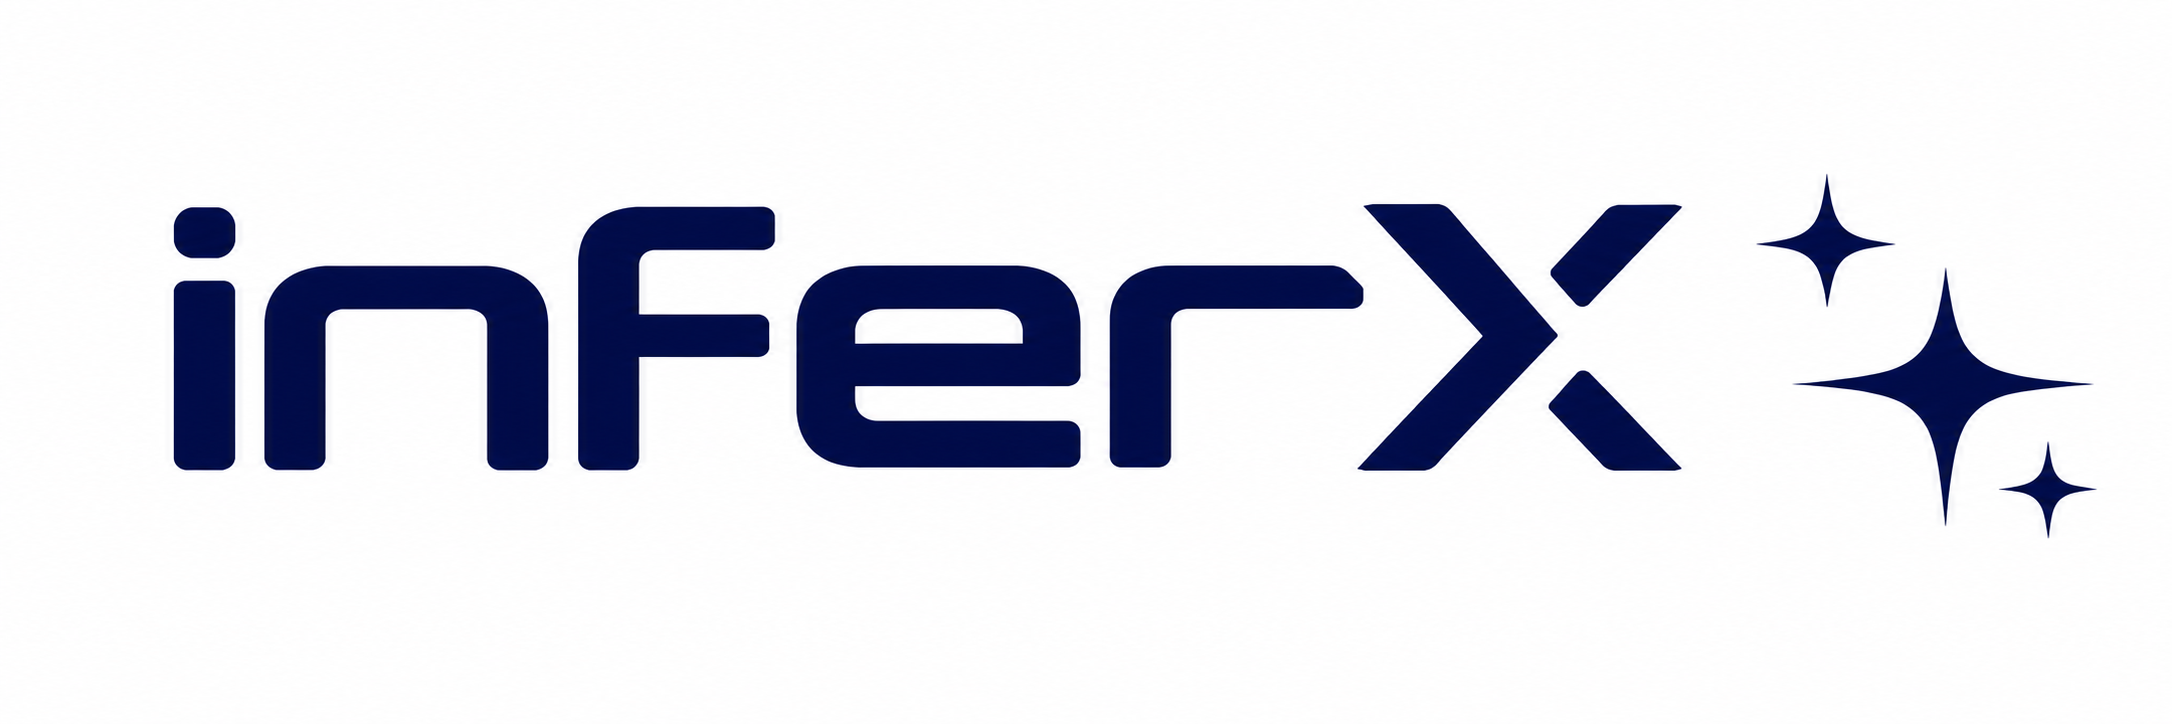
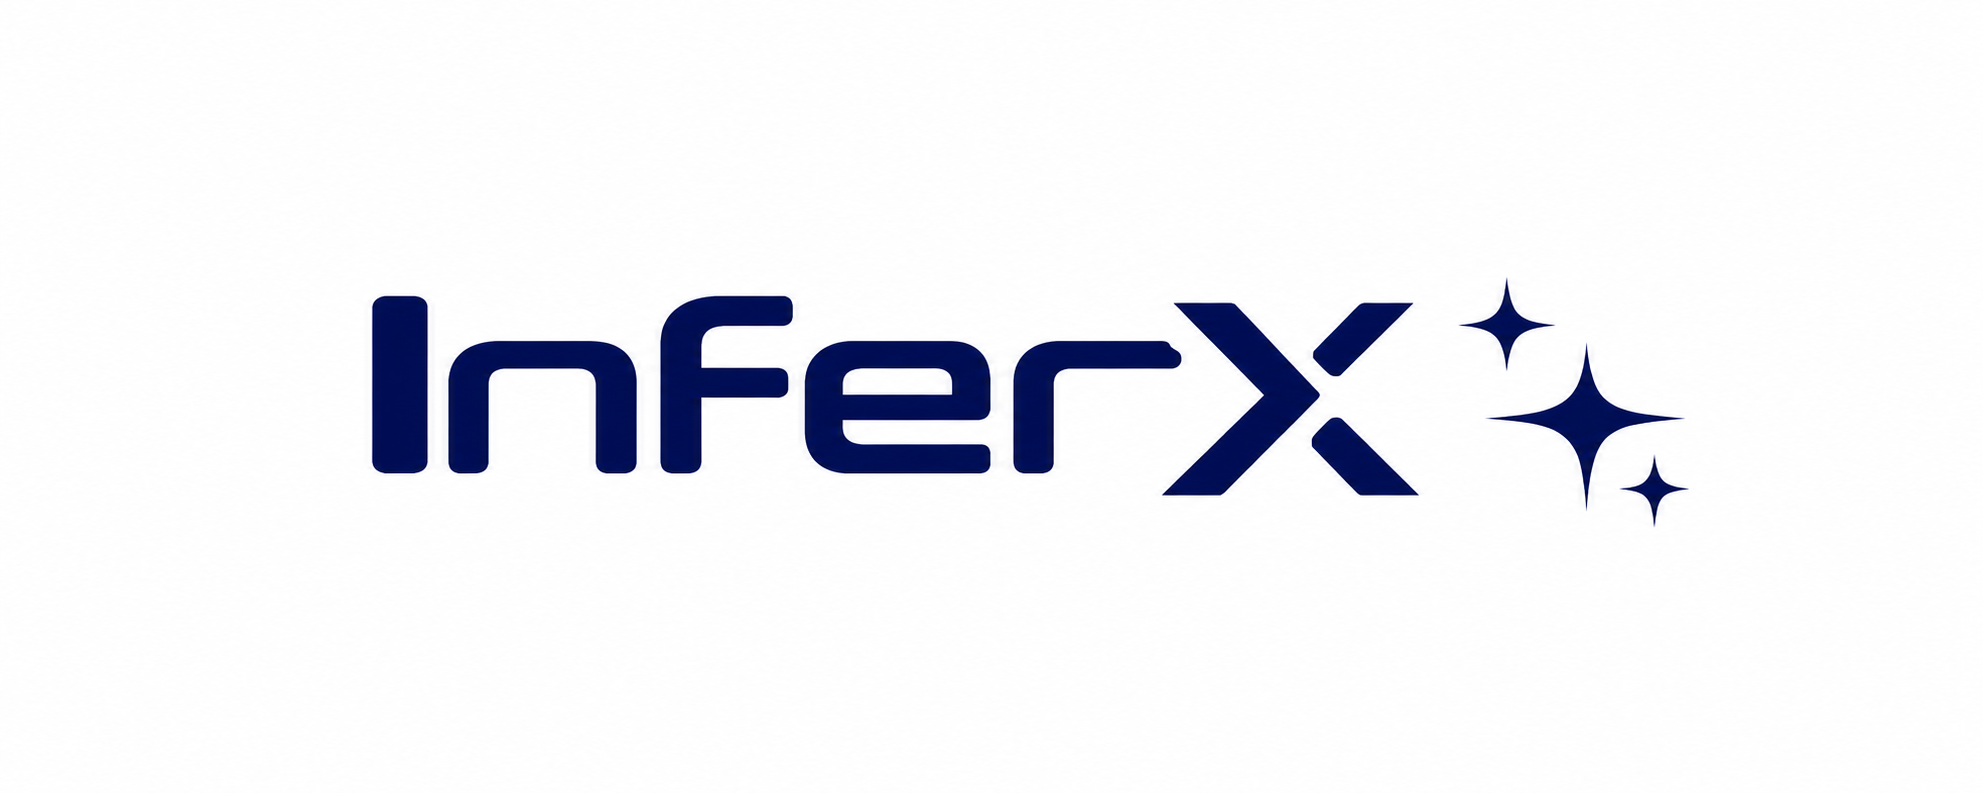
Use InferX wordmark and name

Changed region(s): [[0.0615, 0.2735, 0.9536, 0.7293], [0.7998, 0.2735, 0.8613, 0.395]]

diff --git a/README.md b/README.md
@@ -1,5 +1,5 @@
 <p align="center">
-  <img src="docs/assets/inferx-banner.png" alt="inferX" width="640">
+  <img src="docs/assets/inferx-banner.png" alt="InferX" width="640">
 </p>
 
 <p align="center">
@@ -18,23 +18,23 @@ When an [HPX](https://github.com/STEllAR-GROUP/hpx) locality that holds resident
 
 HPX should not need to understand application state, such as a KV cache or a stencil partition.
 It may need clear identity, failure and ownership semantics so that the layer above can recover
-that state. inferX builds real stateful consumers of HPX supervision and dispatch to find out
+that state. InferX builds real stateful consumers of HPX supervision and dispatch to find out
 which semantics are already there and which are missing.
 
 ## Where it comes from
 
-inferX continues a line of work that started with [RayX](https://github.com/byekrang/RayX), which
+InferX continues a line of work that started with [RayX](https://github.com/byekrang/RayX), which
 asked how much of the distributed execution Ray is usually used for could run on HPX instead,
 especially for fine-grained AI and LLM workloads. RayX's experiment 70 established the HPX
 locality supervision that [langX](https://github.com/RohanOnKeys/langX) then used to run LangGraph
-agent steps fault-tolerantly. inferX takes the next step: from recomputable steps to resident
+agent steps fault-tolerantly. InferX takes the next step: from recomputable steps to resident
 state, such as an LLM's KV cache, that has to survive the loss of the HPX locality holding it,
 while keeping an outer layer like Ray to a minimum.
 
 RayX asked how far HPX can replace Ray. langX showed HPX supervision keeps stateless agent steps
-correct. inferX tests the same for state that lives on a locality.
+correct. InferX tests the same for state that lives on a locality.
 
-inferX follows [langX](https://github.com/RohanOnKeys/langX), which ran LangGraph nodes as HPX
+InferX follows [langX](https://github.com/RohanOnKeys/langX), which ran LangGraph nodes as HPX
 actions under supervision dispatch. langX covered stateless, recomputable steps: when a worker
 died, the step ran again elsewhere and the final state matched a stock LangGraph run. Its report
 is in [`docs/report.md`](https://github.com/RohanOnKeys/langX/blob/main/docs/report.md) of that
@@ -42,7 +42,7 @@ repo.
 
 Retrying the last call is not enough once a worker holds state that outlives a single call. An
 LLM runtime is the motivating case: a worker can hold a request's KV cache, and losing the worker
-loses the cache. HPX already has components, migration and resiliency support; inferX looks at
+loses the cache. HPX already has components, migration and resiliency support; InferX looks at
 how the newer supervision and dispatch semantics interact with stateful components when their
 host is lost.
 
@@ -62,9 +62,9 @@ Stages 3 and 4 each build on stage 2; their order is not fixed yet.
 Two items found during langX are still open upstream
 ([hpx#7834](https://github.com/STEllAR-GROUP/hpx/issues/7834)) and affect stateful recovery:
 
-* A dispatch in flight to a killed locality never completes. inferX abandons such calls once HPX
+* A dispatch in flight to a killed locality never completes. InferX abandons such calls once HPX
   reports the target fenced.
-* Admission (`check_admission`, `dispatch_work`) accepts any epoch. inferX checks ownership epochs
+* Admission (`check_admission`, `dispatch_work`) accepts any epoch. InferX checks ownership epochs
   itself before accepting results or state.
 
 ## Status
